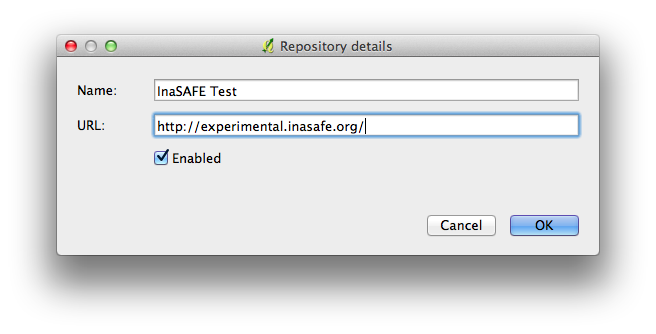
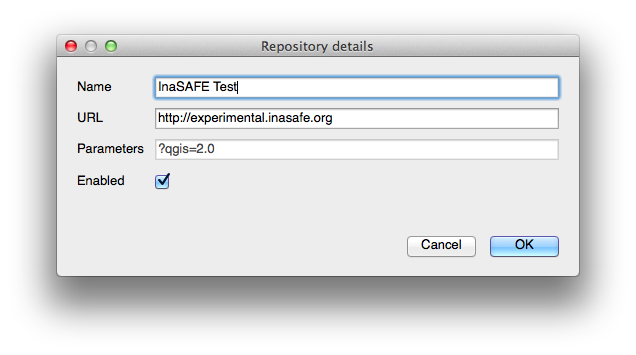
Updated Install experimental for QG2.0

Changed region(s): [[0.0896, 0.0898, 0.9261, 0.7784], [0.0597, 0.1796, 0.0896, 0.7485], [0.1195, 0.479, 0.2091, 0.5389]]

diff --git a/docs/source/user-docs/install.rst b/docs/source/user-docs/install.rst
@@ -23,17 +23,18 @@ During development of an InaSAFE version, developers make a test version of
 the software for people to trial. Here are the instructions on how to install
 this test version.
 
-1. :menuselection:`Plugins --> Fetch Python Plugins`
-2. :guilabel:`Click` on **Options** tab and :guilabel:`Check`
-   *Show all plugins, even those marked as experimental*
+1. :menuselection:`Plugins --> Manage and Install Plugins`
 
-   .. image:: /static/user-docs/installer_options.*
+   .. image:: /static/user-docs/plugin_manager.*
       :align: center
 
-3. :guilabel:`Click` on **Repository** tab and :guilabel:`Add` a new repository
+2. :guilabel:`Click` on **Settings** tab and :guilabel:`Check`
+   *Show all experimental plugins*
 
-   .. image:: /static/user-docs/python_installer.*
+   .. image:: /static/user-docs/experimental.*
       :align: center
+
+3. :guilabel:`Click` on * :guilabel:`Add` at the bottom of the window
 
 4. Type the following into the Repository details
 
@@ -45,18 +46,17 @@ this test version.
 
 5. :guilabel:`OK`
 
-6. You should now have 2 repositories connected, :guilabel:`Click` on
-   **Plugins**
-
    .. image:: /static/user-docs/connected.*
       :align: center
 
-7. :guilabel:`Upgrade plugin`
+6. You should now have 2 repositories connected, :guilabel:`Click` on
+   **Installed** and check that InaSAFE plugin is :guilabel:`Check
 
-   .. image:: /static/user-docs/upgradeable.*
+   .. image:: /static/user-docs/InaSAFE_installed.*
       :align: center
 
-8. InaSAFE has now been upgraded, all you need to do now is restart QGIS
+7. InaSAFE experimental has now been installed, its best to restart
+QGIS before using InaSAFE.
 
    .. image:: /static/user-docs/restart.*
       :align: center
